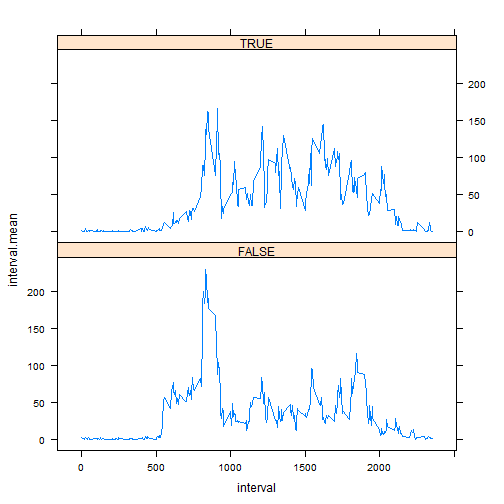
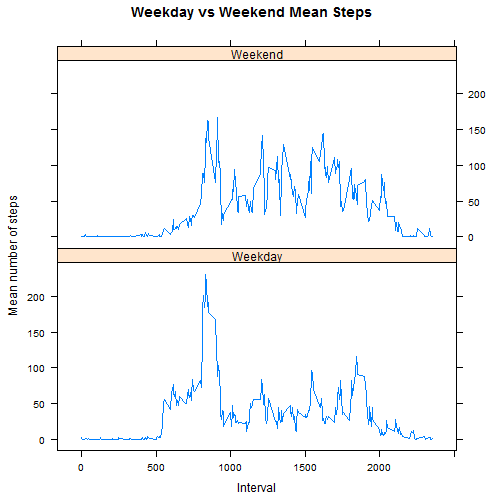
tidied up plot labelling

diff --git a/PA1_template.html b/PA1_template.html
@@ -307,12 +307,12 @@ meanDailySteps
 <p>Next we need to add variable denoting whether or a particular days is a weekend:</p>
 
 <pre><code class="r">weekend &lt;- function(x) {
-  isWeekend = FALSE
+  isWeekend = &#39;Weekday&#39;
   if (x == &#39;Saturday&#39; | x == &#39;Sunday&#39;) {
-    isWeekend = TRUE
+    isWeekend = &#39;Weekend&#39;
   }
   else {
-    isWeekend = FALSE
+    isWeekend = &#39;Weekday&#39;
   }
   isWeekend
 }
@@ -329,10 +329,12 @@ for (idx in 1:nrow(data)) {
 
 <p>Finally we produce a lattice plot shwoing the difference in weekday vs weekend activity.</p>
 
-<pre><code class="r">xyplot(interval.mean ~ interval | is.weekend, data = intervalSumDays, layout = c(1,2), type=&#39;l&#39;)
+<pre><code class="r">xyplot(interval.mean ~ interval | is.weekend, data = intervalSumDays, 
+       layout = c(1,2), type=&#39;l&#39;, xlab = &#39;Interval&#39;, ylab=&#39;Mean number of steps&#39;, 
+       main=&#39;Weekday vs Weekend Mean Steps&#39;)
 </code></pre>
 
[2 lines of base64/hex data omitted]
 
 <p>Weekend activity is clearly different from weekday activity.</p>
 

diff --git a/PA1_template.md b/PA1_template.md
@@ -143,12 +143,12 @@ Next we need to add variable denoting whether or a particular days is a weekend:
 
 ```r
 weekend <- function(x) {
-  isWeekend = FALSE
+  isWeekend = 'Weekday'
   if (x == 'Saturday' | x == 'Sunday') {
-    isWeekend = TRUE
+    isWeekend = 'Weekend'
   }
   else {
-    isWeekend = FALSE
+    isWeekend = 'Weekday'
   }
   isWeekend
 }
@@ -167,7 +167,9 @@ intervalSumDays <- ddply(data, .(interval, is.weekend), summarize,
 Finally we produce a lattice plot shwoing the difference in weekday vs weekend activity.
 
 ```r
-xyplot(interval.mean ~ interval | is.weekend, data = intervalSumDays, layout = c(1,2), type='l')
+xyplot(interval.mean ~ interval | is.weekend, data = intervalSumDays, 
+       layout = c(1,2), type='l', xlab = 'Interval', ylab='Mean number of steps', 
+       main='Weekday vs Weekend Mean Steps')
 ```
 
 ![plot of chunk unnamed-chunk-15](figure/unnamed-chunk-15.png) 
